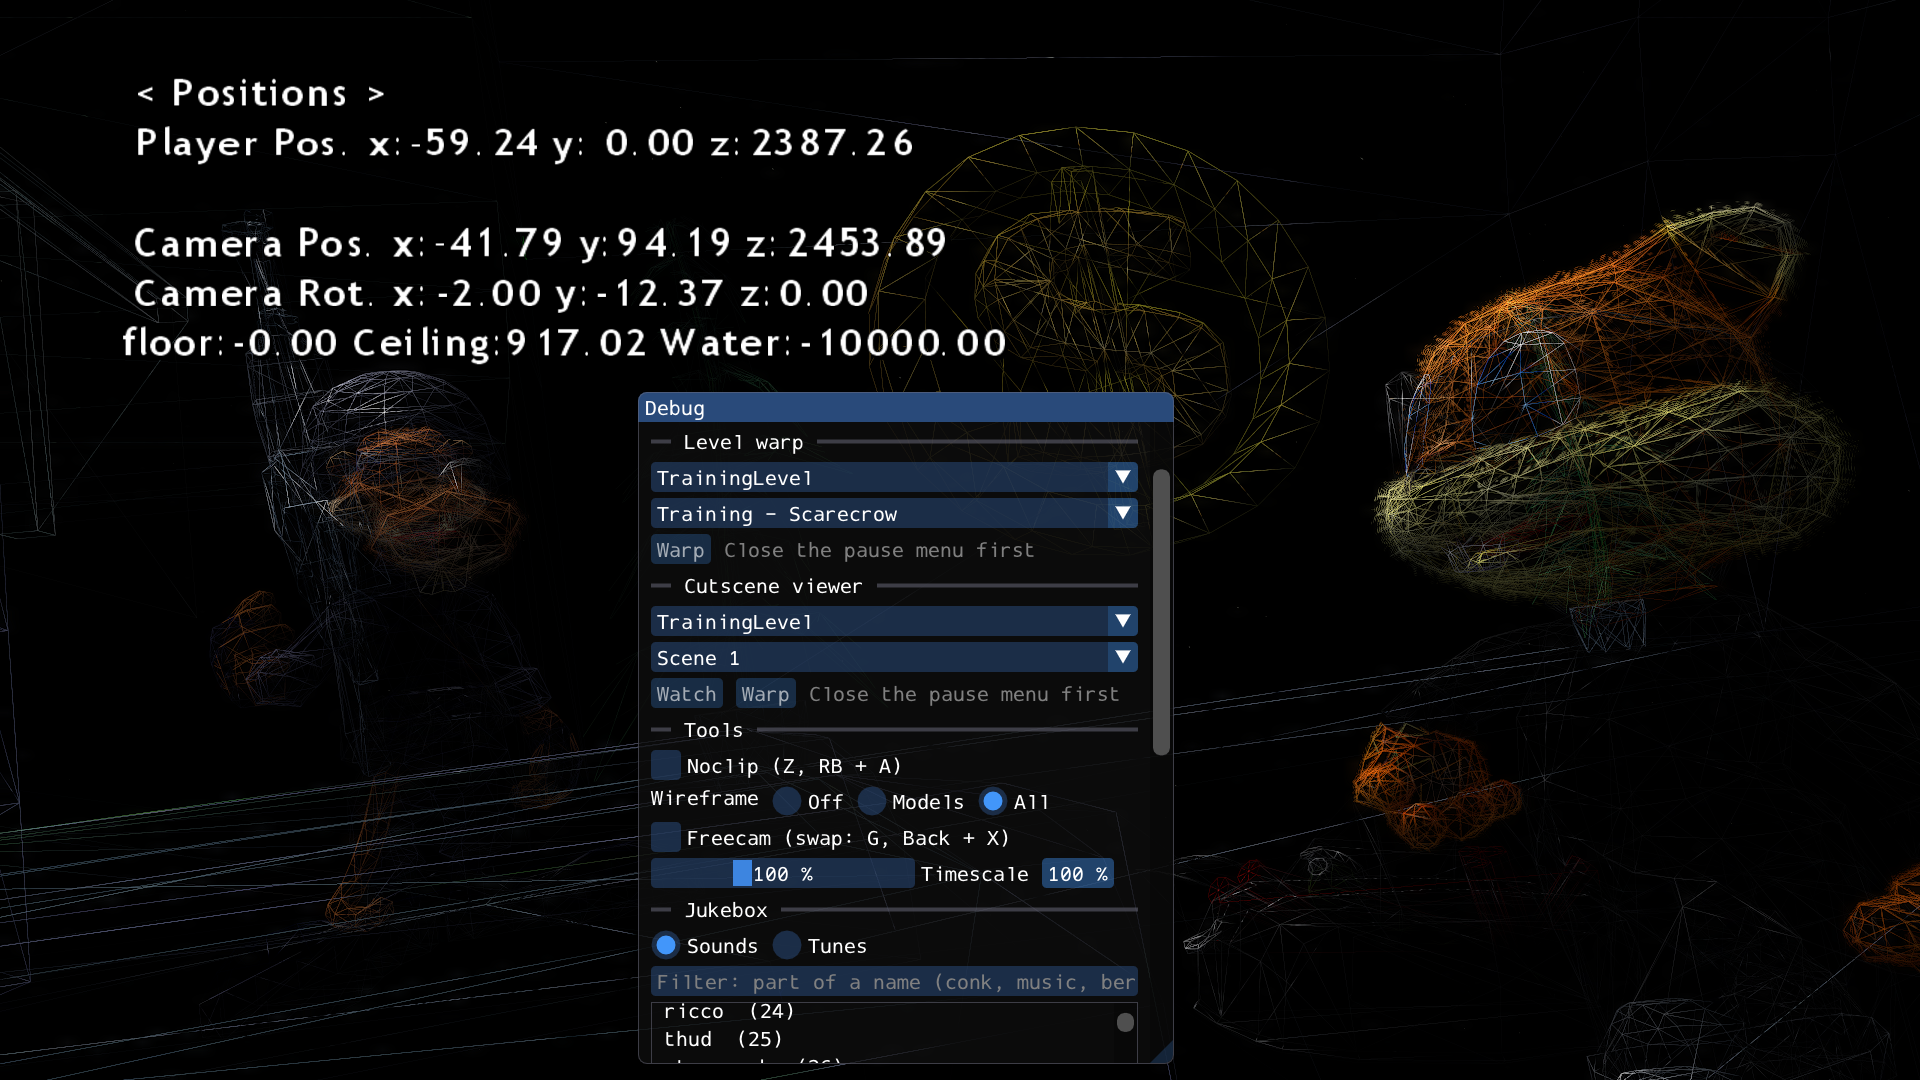
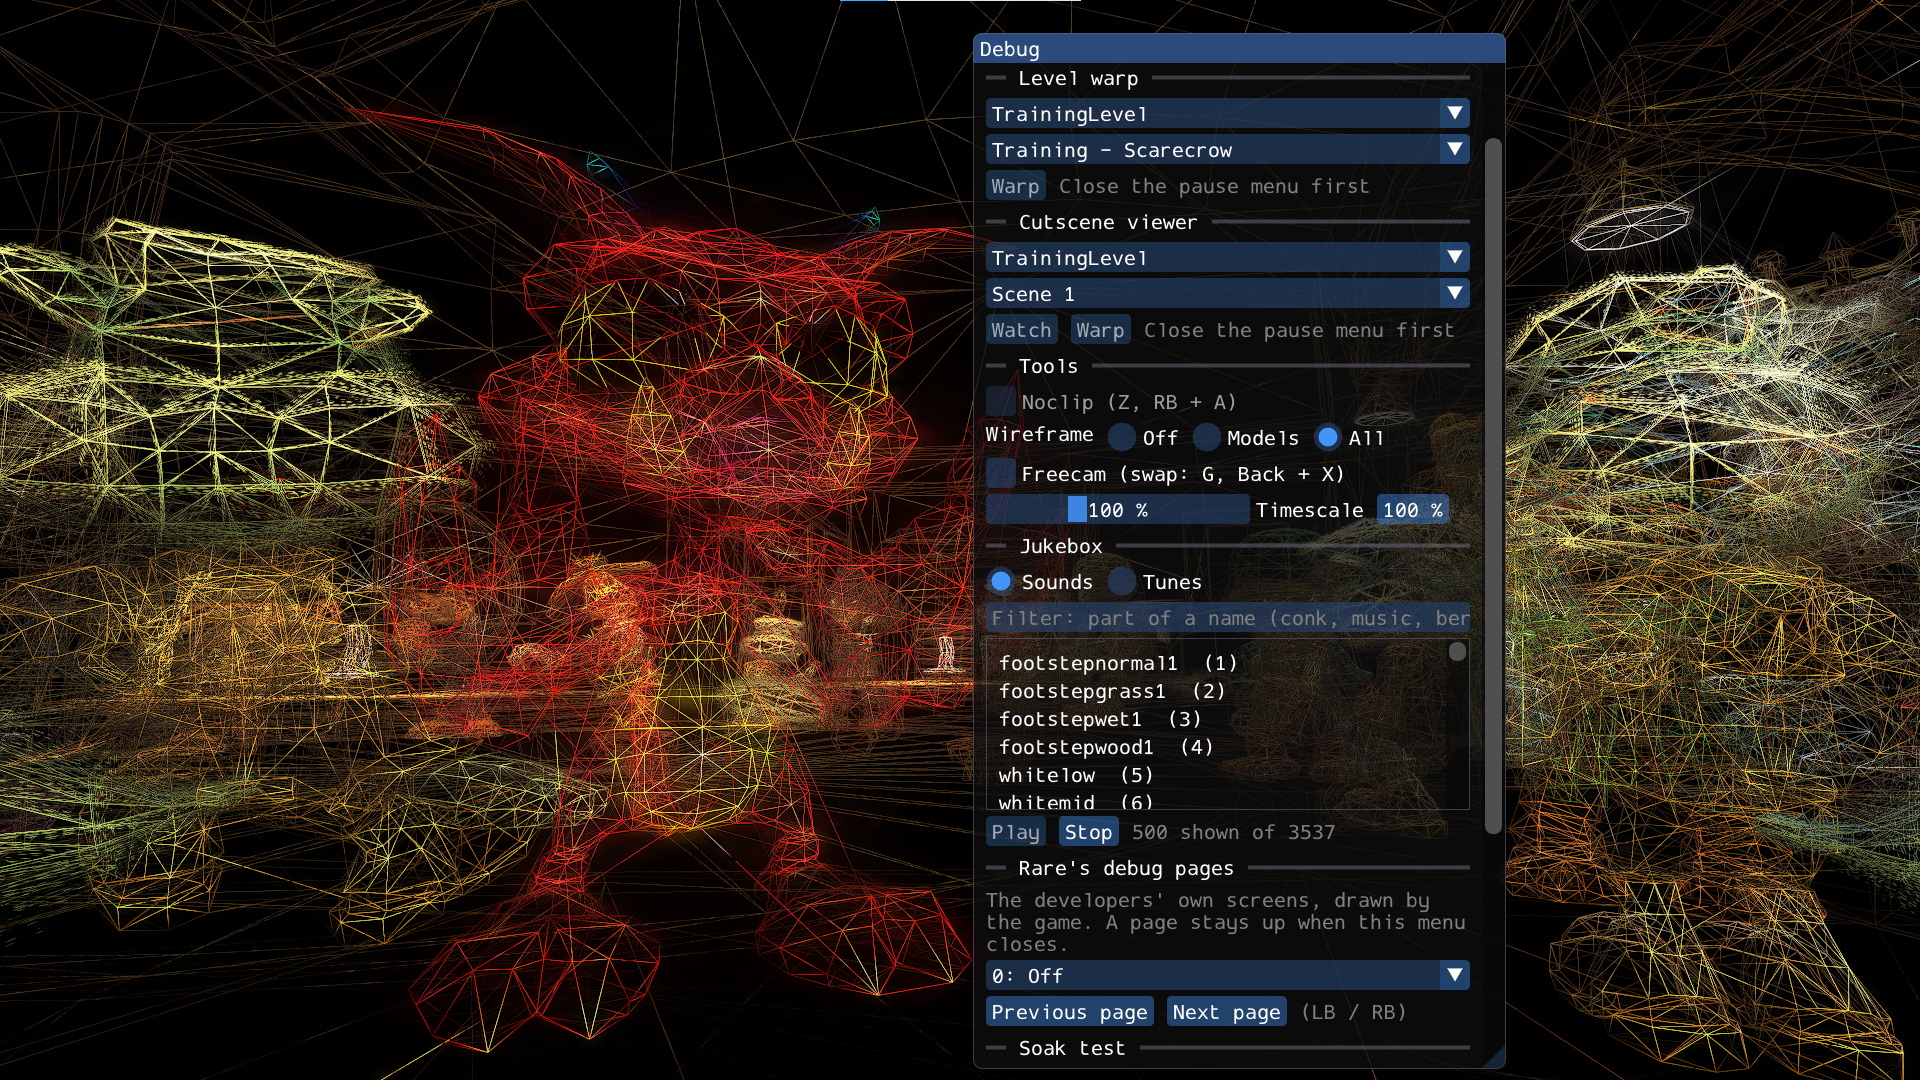
README: new Debug mode screenshot

diff --git a/README.md b/README.md
@@ -258,8 +258,8 @@ debug pages, and every cheat without its code. Everything it does is in
 first.
 
 <p align="center">
-  <img src="images/debug-mode.png" alt="The Debug menu over the Training level drawn in wireframe, with Rare's positions page"><br>
-  <i>The Debug menu (F8), with wireframe on and one of Rare's debug pages</i>
+  <img src="images/debug-mode.png" alt="The Debug menu over Conker and the Training level drawn in wireframe"><br>
+  <i>The Debug menu (F8), with the whole scene in wireframe</i>
 </p>
 
 ### Loading
